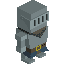
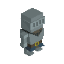
obj detect by collidion, player size decreased (64*64 -> 48*48), camera can focus player with key z, bug fixes

Changed region(s): [[0.2188, 0.0, 0.7812, 1.0]]

diff --git a/main.py b/main.py
@@ -1,4 +1,4 @@
-from map import Map
+from map import Map, SCALE, enviroment_matrix, none_matrix
 import hud
 import camera
 import mouse
@@ -6,13 +6,13 @@ import generate_map
 import pygame
 from player import Player
 import render
+import engine
 
 WIN = pygame.display.set_mode((1920, 1080))
 DISPLAY = pygame.Surface((1920, 1080))
 CAM = camera.Camera(30, 10)
-SCALE = 70
 
-player0 = Player(0, 70)
+player0 = Player(0, SCALE)
 
 def main() -> None:
     # WINDOW SETUP ------------------------------------------------------------ WINDOW SETUP
@@ -24,21 +24,26 @@ def main() -> None:
     mapgen.dirt_generation()
     map: Map = Map()
     map.read_tiles(player0)
-    CAM.set_offset_to_middle()
+    CAM.set_offset_to(player0, WIN)
     zoom_hud: hud.zoom = hud.zoom(CAM.zoom)
     clock = pygame.time.Clock() 
     run = True
     tile = player0.getTileBelow()
+    selected_tile = ""
     while run:
-        pygame.mouse.set_visible(False)
+        pygame.mouse.set_visible            (False)
         DISPLAY = pygame.Surface((1920 + CAM.zoom[0], 1080 + CAM.zoom[1]))
         DISPLAY.fill((76.4, 107.3, 121.7))
         render.renderTiles(CAM.move_camera(), DISPLAY, player0, tile)
         map.tiles = []
         clock.tick(60)
         player0.move()
-        tile = player0.getTileBelow()
+        collided_tile = engine.collide(player0)
+        if collided_tile is not None:
+            tile = none_matrix[collided_tile[0]][collided_tile[1]]
 
+        if CAM.lock:
+            CAM.set_offset_to(player0, DISPLAY)
 
         for event in pygame.event.get():
             if event.type == pygame.QUIT:
@@ -52,7 +57,7 @@ def main() -> None:
                     zoom_hud.m1_click = True
                     clicked_tile = mouse.click.getClickedTile(CAM.offset, CAM.zoom)
                     if clicked_tile != None:
-                        player0aa.move_direction.y, player0.move_direction.y = 0,0
+                        player0.move_direction.y, player0.move_direction.y = 0,0
                         tile = clicked_tile
 
             if event.type == pygame.MOUSEBUTTONUP:
@@ -63,7 +68,7 @@ def main() -> None:
                 if event.key == pygame.K_ESCAPE:
                     run = False
                 if event.key == pygame.K_SPACE:
-                    CAM.set_offset_to_middle()
+                    CAM.set_offset_to(player0, DISPLAY)
 
                 if event.key == pygame.K_w:
                     player0.move_direction.y = -1
@@ -80,6 +85,9 @@ def main() -> None:
                 if event.key == pygame.K_d:
                     player0.move_direction.x = 1
                     player0.move_direction.y = 0
+
+                if event.key == pygame.K_z:
+                    CAM.lock = CAM.lock * -1 + 1
 
             if event.type == pygame.KEYUP:
                 if event.key == pygame.K_w:

diff --git a/camera.py b/camera.py
@@ -1,5 +1,6 @@
 import main
 import mouse
+import engine
 from typing import List
 
 
@@ -13,36 +14,35 @@ class Camera():
         self.max_zoom = (1920 - 16 * self.zoom_size, 1080 - 9 * self.zoom_size)
         self.min_zoom = (-1920 + 16 * self.zoom_size,
                          - 1080 + 9 * self.zoom_size)
+        self.lock = False
 
     def move_camera(self) -> List[int]:
-        if mouse.pos()[0] <= 0 + self.display_offset:
-            self.offset[0] += self.camera_speed/(1920/(1920 + self.zoom[0]))
+        if not self.lock:
+            if mouse.pos()[0] <= 0 + self.display_offset:
+                self.offset[0] += self.camera_speed/(1920/(1920 + self.zoom[0]))
 
-        elif mouse.pos()[0] >= main.WIN.get_width() - self.display_offset:
-            self.offset[0] -= self.camera_speed/(1920/(1920 + self.zoom[0]))
+            elif mouse.pos()[0] >= main.WIN.get_width() - self.display_offset:
+                self.offset[0] -= self.camera_speed/(1920/(1920 + self.zoom[0]))
 
-        if mouse.pos()[1] <= 0 + self.display_offset:
-            self.offset[1] += self.camera_speed/(1080/(1080 + self.zoom[1]))
+            if mouse.pos()[1] <= 0 + self.display_offset:
+                self.offset[1] += self.camera_speed/(1080/(1080 + self.zoom[1]))
 
-        elif mouse.pos()[1] >= main.WIN.get_height() - self.display_offset:
-            self.offset[1] -= self.camera_speed/(1080/(1080 + self.zoom[1]))
+            elif mouse.pos()[1] >= main.WIN.get_height() - self.display_offset:
+                self.offset[1] -= self.camera_speed/(1080/(1080 + self.zoom[1]))
 
         return self.offset
 
-    def set_offset_to_middle(self):
-        self.offset = [(main.WIN.get_width()-main.SCALE + self.zoom[0])/2,
-                       (main.WIN.get_height()-main.SCALE*32 + self.zoom[1])/2]
-
-    def set_offset_to_player(self, player):
-        self.offset = [(main.WIN.get_width()- (player.x * 32 - player.y * 32)+ self.zoom[0])/2,
-                       (main.WIN.get_height()- (player.x * 16 + player.y * 16 - player.z * 32) + self.zoom[1])/2]
+    def set_offset_to(self, tile, Display):
+        self.offset = [-1*(tile.x * 32 - tile.y * 32) + Display.get_width()/2, -1*(tile.x * 16 + tile.y * 16 - tile.z * 32) + Display.get_height()/2]
 
     def zoom_in(self):
         if self.zoom[0] > self.min_zoom[0] or self.zoom[1] > self.min_zoom[1]:
             self.zoom[0] -= 16 * self.zoom_size
-            self.zoom[1] -= 9 * self.zoom_size
+            self.zoom[1] -= 9 * self.zoom_size       
 
     def zoom_out(self):
         if self.zoom[0] < self.max_zoom[0] or self.zoom[1] < self.max_zoom[1]:
             self.zoom[0] += 16 * self.zoom_size
-            self.zoom[1] += 9 * self.zoom_size
+            self.zoom[1] += 9 * self.zoom_size      
+
+

diff --git a/player.py b/player.py
@@ -16,6 +16,7 @@ class Player:
         self.teamNumber = teamNumber
         self.middle_offset = 1/self.player_types[0].get_width()*2
         self.prev_player_type = self.player_types[0]
+        self.look_dir = pygame.math.Vector2(0, 1)
 
     def getTileBelow(self):
         return map.none_matrix[round(self.y)][round(self.x)]
@@ -23,18 +24,22 @@ class Player:
     def get_tile_type(self):
         if self.move_direction.x == 1:
             self.prev_player_type = self.player_types[1]
+            self.look_dir.x, self.look_dir.y = 1, 0
             return self.player_types[1]
         
         elif self.move_direction.x == -1:
             self.prev_player_type = self.player_types[2]
+            self.look_dir.x, self.look_dir.y = -1, 0
             return self.player_types[2]
         
         elif self.move_direction.y == 1:
             self.prev_player_type = self.player_types[0]
+            self.look_dir.x, self.look_dir.y = 0, 1
             return self.player_types[0]
         
         elif self.move_direction.y == -1:
             self.prev_player_type = self.player_types[3]
+            self.look_dir.x, self.look_dir.y = 0, -1
             return self.player_types[3]
         else:
             return self.prev_player_type

diff --git a/render.py b/render.py
@@ -13,7 +13,6 @@ def renderTiles(offset, Display, player, clicked_tile):
     
     Display.blit(tiles.TileTypes.outline.convert_alpha(), ((clicked_tile.x) * 32 - (clicked_tile.y) * 32 + offset[0], (clicked_tile.x) * 16 + (clicked_tile.y) * 16 - clicked_tile.z * 32 + offset[1] - clicked_tile.anchor_y))
 
-
     for y, row in enumerate(enviroment_matrix):
         for x, tile in enumerate(row):
             if tile != None:
@@ -27,10 +26,10 @@ def renderTiles(offset, Display, player, clicked_tile):
                         enviroment_matrix[y][x] = None
                         enviroment_matrix[tile.getTileBelow().y][tile.getTileBelow().x] = tile
                         
-                if pos[0] > -64 and pos[0] < Display.get_width() + 64 and pos[1] > -64 and pos[1] < Display.get_height() + 64:
+                if pos[0] > -64*2 and pos[0] < Display.get_width() + 64*2 and pos[1] > -64*2 and pos[1] < Display.get_height() + 64*2:
                     if tile != player:
                         Display.blit(tile.tile_type, pos)
                     else:
                         pos[0] += 0
-                        pos[1] -= 10
+                        pos[1] -= 0
                         Display.blit(tile.get_tile_type(), pos)

diff --git a/engine.py b/engine.py
@@ -1,5 +1,6 @@
 from typing import Any, List
 import pygame
+import map
 import math
 
 
@@ -31,6 +32,13 @@ def MoveTowards(start: tuple, target: tuple, speed: float) -> tuple:
     returned: tuple = (dest[0], dest[1])
     return returned
 
+def collide(tile):
+
+    # returns with the coillided tile -> the location of the obj (based on the enviroment_matrix)
+
+    if map.enviroment_matrix[tile.getTileBelow().y + int(tile.look_dir.y)][tile.getTileBelow().x + int(tile.look_dir.x)] != None:
+        return tile.getTileBelow().y + int(tile.look_dir.y), tile.getTileBelow().x + int(tile.look_dir.x)
+    return None
 
 def convertTileToScreenPos(tile, offset: tuple, zoom : List[int]) -> tuple:
     screen_pos = ((tile.x) * 32 - (tile.y) * 32 + offset[0] + 32)*(1920/(1920 + zoom[0])), ((tile.x) * 16 + (tile.y) * 16 - tile.z * 32 + offset[1] + 16)*(1080/(1080 + zoom[1]))

diff --git a/map.py b/map.py
@@ -2,10 +2,12 @@ from typing import List
 import numpy
 import tiles
 
+SCALE = 80
+
 tile_matrix: List = []
-none_matrix: List[List] = [[None]*70 for i in range(70)]
+none_matrix: List[List] = [[None]*SCALE for i in range(SCALE)]
 dirt_matrix: List[tiles.Dirt] = []
-enviroment_matrix: List[List] = [[None]*70 for i in range(70)]
+enviroment_matrix: List[List] = [[None]*SCALE for i in range(SCALE)]
 
 class Map:
     def read_tiles(self, player0):
